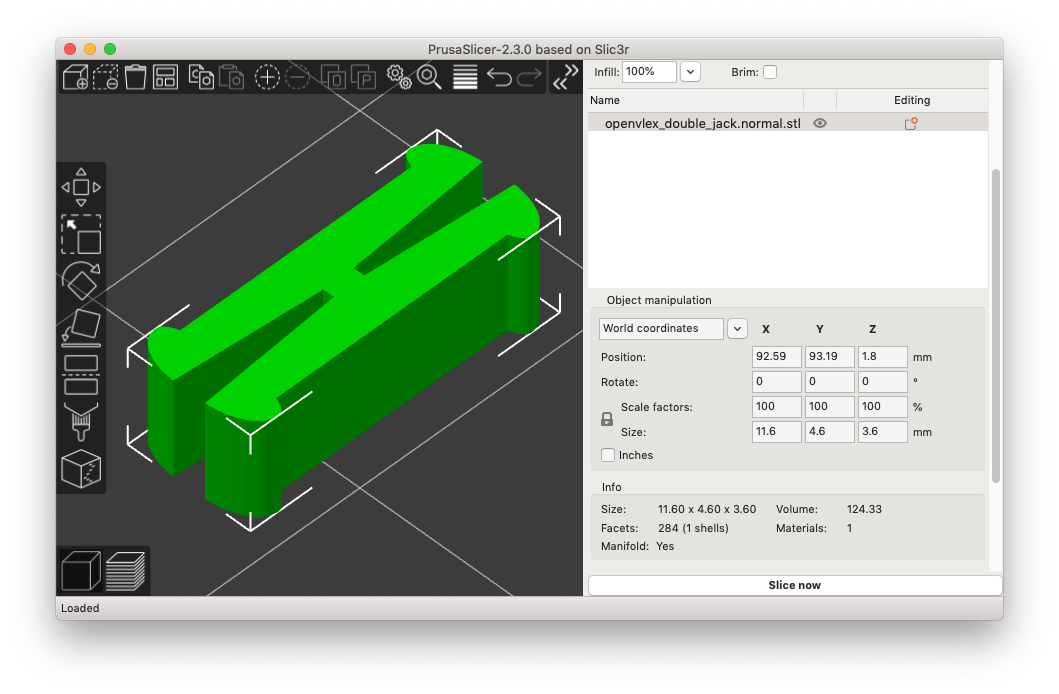
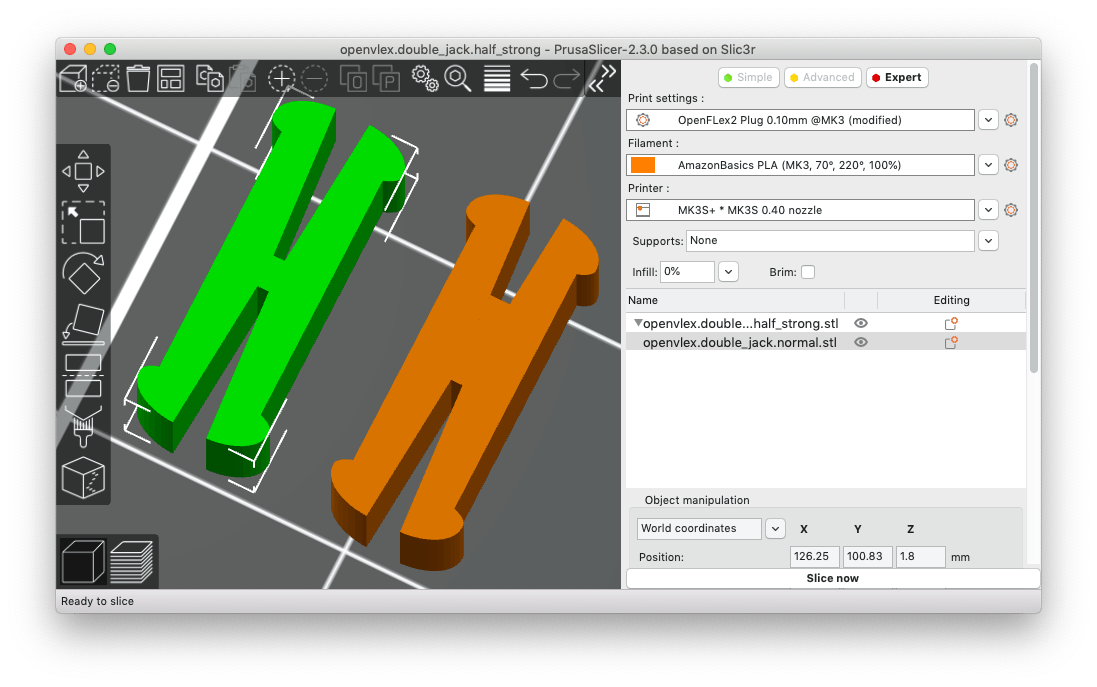
added half strong double jacks

diff --git a/jacks/README.md b/jacks/README.md
@@ -77,6 +77,11 @@ The jacks are quite small parts, so the most important issue is the adhesion of 
 
 Use double jacks to vertically clip together OpenVLex parts (risers and stairs) that have holes on the bottom side.
 
+There are two variants of the double jack:
+
+1. **"normal"** (green one in image below): can be used as **universal joint** for clipping together parts with both having OpenVLex socket holes.
+2. **"half strong"** (orange one in image below): can be used as a **permanent jack** that is clipped once and forever into bottom socket holes of stair/riser parts. Use the strong side of the jack (where the shorter cutting is) for permanent clipping it into a socket hole.
+
 ![Double Jacks](./img/openvlex_double_jack_slicer.png)
 
 ### Printing Notes for OpenVLex Double Jacks
